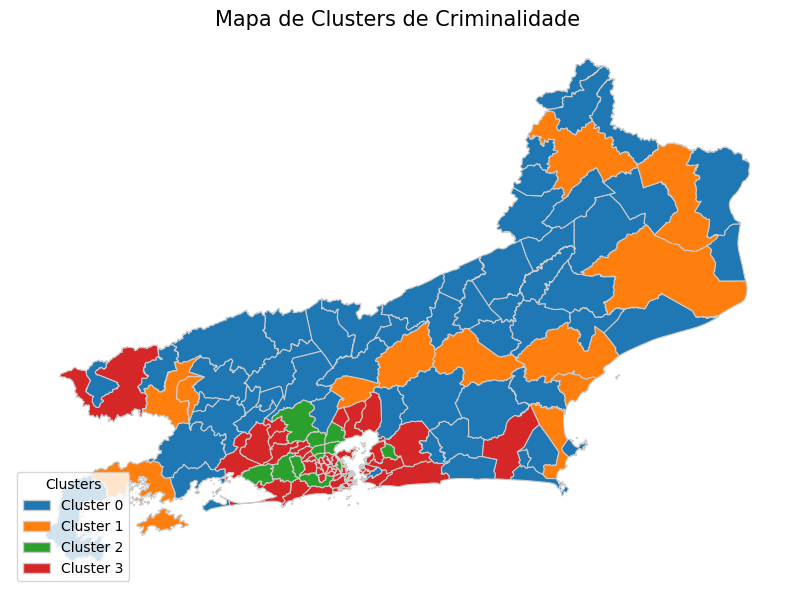
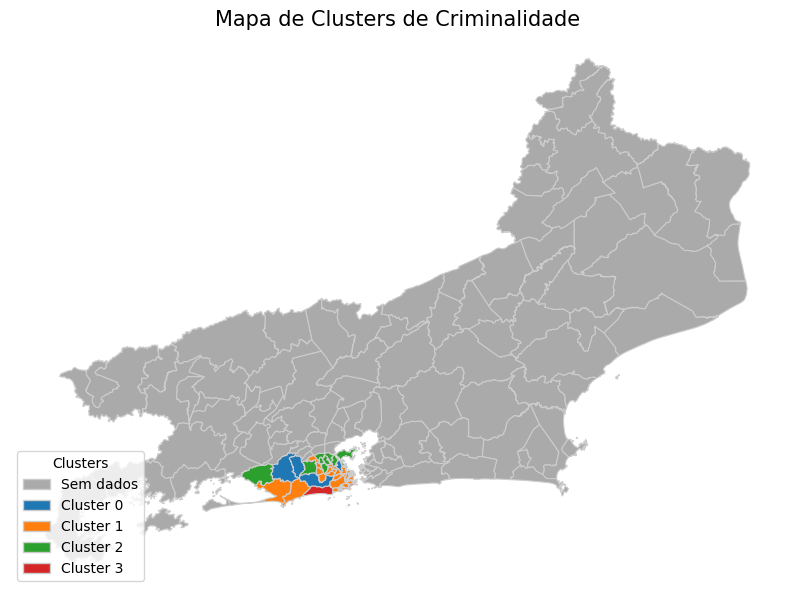
Ajuste no mapa de calor de letalidade violenta agrupado por cisp

Changed region(s): [[0.0302, 0.0903, 0.9673, 0.9331]]

diff --git a/crime_monitor/backend/app.py b/crime_monitor/backend/app.py
@@ -1077,42 +1077,27 @@ def map_image(group_by):
     gdf = gdf.merge(df_grouped, left_on=shapefile_col, right_on=group_by, how="left")
     gdf["letalidade_violenta"] = gdf["letalidade_violenta"].fillna(0)
 
-    # 🔹 Define colunas de código e nome conforme agrupamento
-    if group_by == "mcirc":
-        nome_col = "NM_MUN"
-        codigo_col = "CD_MUN"
+    # 🔹 Caso o filtro seja por município
+    if municipio:
+        municipios_gdf = gpd.read_file(SHAPEFILES["mcirc"])
+        if municipios_gdf.crs is None:
+            municipios_gdf = municipios_gdf.set_crs(epsg=4326)
 
-        # Garante que NM_MUN existe
-        if nome_col not in gdf.columns:
-            municipios_ref = gpd.read_file(SHAPEFILES["mcirc"])[["CD_MUN", "NM_MUN"]]
-            municipios_ref["CD_MUN"] = municipios_ref["CD_MUN"].astype(str)
-            gdf = gdf.merge(municipios_ref, on="CD_MUN", how="left")
+        # Garante mesmo CRS
+        municipios_gdf = municipios_gdf.to_crs(gdf.crs)
 
-    elif group_by == "cisp":
-        nome_col = "NOME_CISP" if "NOME_CISP" in gdf.columns else shapefile_col
-        codigo_col = shapefile_col
+        # Seleciona o polígono do município desejado
+        municipio_geom = municipios_gdf.loc[municipios_gdf["NM_MUN"] == municipio, "geometry"]
+        if not municipio_geom.empty:
+            municipio_geom = municipio_geom.iloc[0]
 
-    elif group_by == "aisp":
-        nome_col = "NOME_AISP" if "NOME_AISP" in gdf.columns else shapefile_col
-        codigo_col = shapefile_col
+            # 🔹 Recorta o shapefile das CISPs apenas dentro do município
+            gdf = gpd.clip(gdf, municipio_geom)
 
-    elif group_by == "risp":
-        nome_col = "NOME_RISP" if "NOME_RISP" in gdf.columns else shapefile_col
-        codigo_col = shapefile_col
-
-    else:
-        nome_col = shapefile_col
-        codigo_col = shapefile_col
-
-    # 🔹 Cria colunas caso ainda não existam
-    if nome_col not in gdf.columns:
-        gdf[nome_col] = ""
-    if codigo_col not in gdf.columns:
-        gdf[codigo_col] = ""
-
-    # 🔹 Filtra por município, se aplicável
-    if municipio and nome_col in gdf.columns:
-        gdf = gdf[gdf[nome_col] == municipio]
+            # Atribui nome do município
+            gdf["NM_MUN"] = municipio
+        else:
+            return jsonify({"error": f"Município '{municipio}' não encontrado no shapefile"}), 404
 
     # 🔹 Gera o mapa
     fig, ax = plt.subplots(1, 1, figsize=(10, 10))
@@ -1133,18 +1118,18 @@ def map_image(group_by):
     plt.savefig(image_path, bbox_inches="tight")
     plt.close(fig)
 
-    # 🔹 Normaliza e exporta os dados corretos
+    # 🔹 Prepara os dados para JSON
     gdf["letalidade_violenta"] = gdf["letalidade_violenta"].fillna(0)
-    gdf[nome_col] = gdf[nome_col].fillna("")
-    gdf[codigo_col] = gdf[codigo_col].fillna("")
+    gdf["NM_MUN"] = gdf.get("NM_MUN", "")
+    gdf[shapefile_col] = gdf[shapefile_col].fillna("")
 
-    data_saida = gdf[[codigo_col, nome_col, "letalidade_violenta"]].drop_duplicates().to_dict(orient="records")
+    data_saida = gdf[[shapefile_col, "NM_MUN", "letalidade_violenta"]].drop_duplicates().to_dict(orient="records")
 
     return jsonify({
         "image_url": f"/static/img/{image_name}",
         "data": data_saida
     })
-    
+
 # ===========================
 # API - Features do modelo
 # ===========================
@@ -1506,7 +1491,7 @@ def mapa_clusters():
         34: "#ffb6c1",  # rosa bebê
         35: "#8b0000",  # vermelho escuro
         36: "#2f4f4f",  # cinza-azulado escuro
-        -1: "#aaaaaa"   # neutro
+        -1: "#cccccc"   # neutro
     }
 
     clusters_in_data = sorted(gdf["cluster"].unique())
